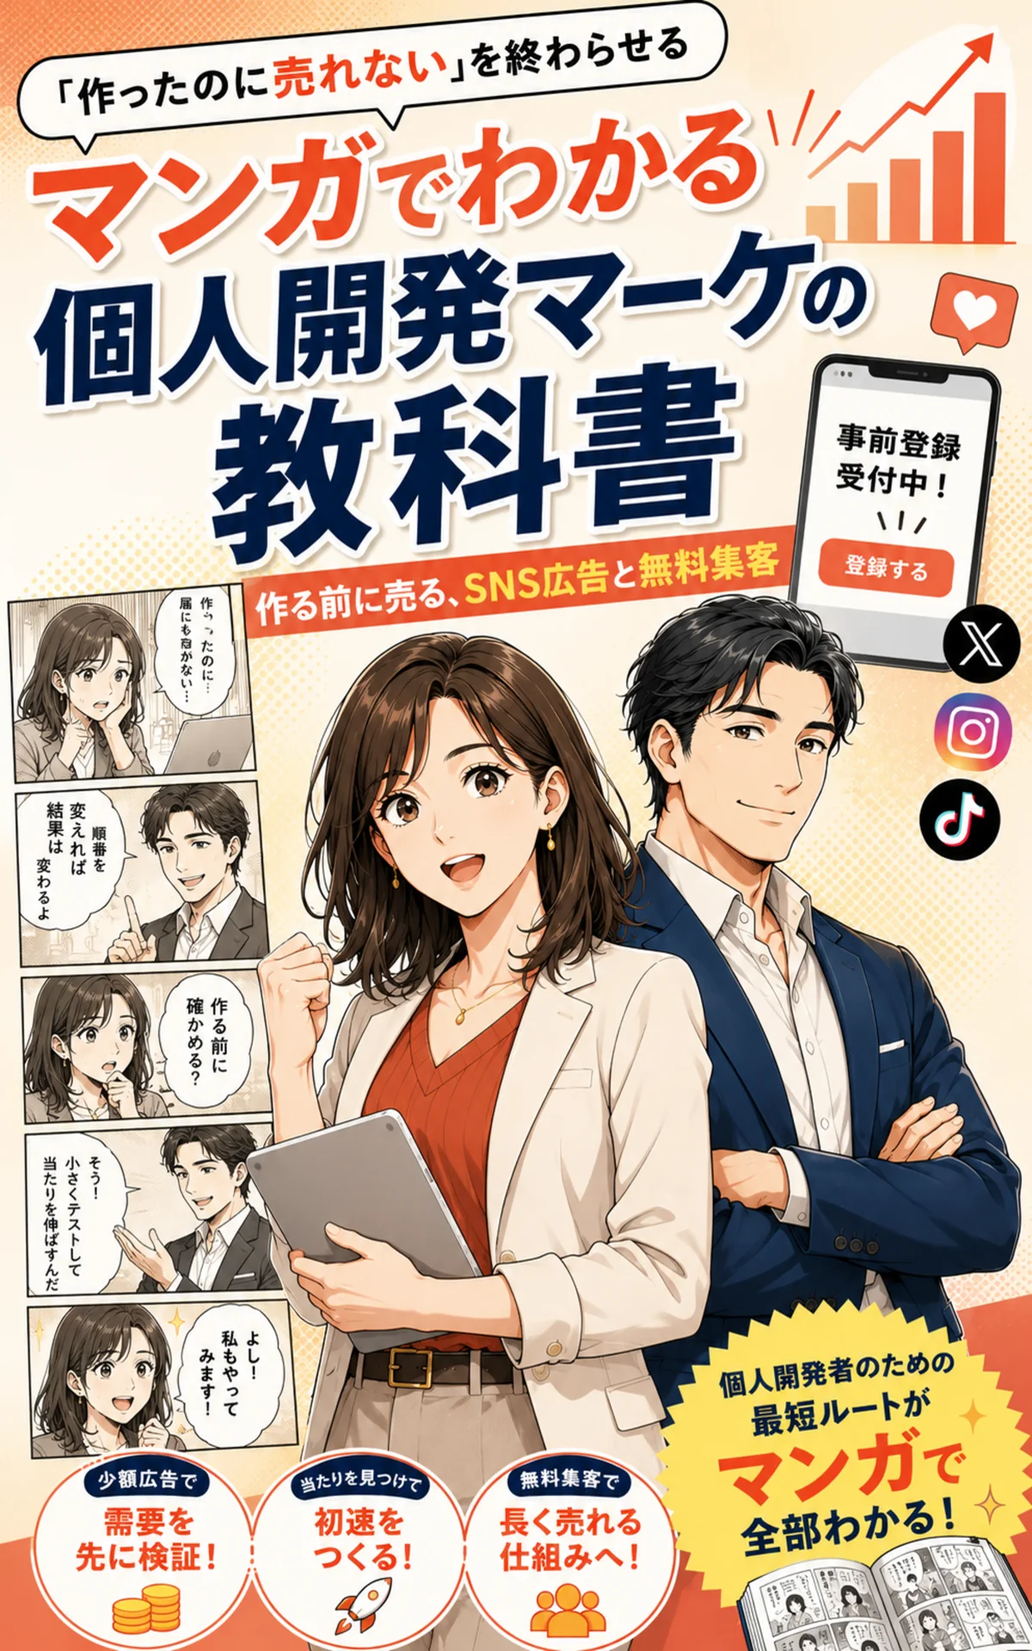
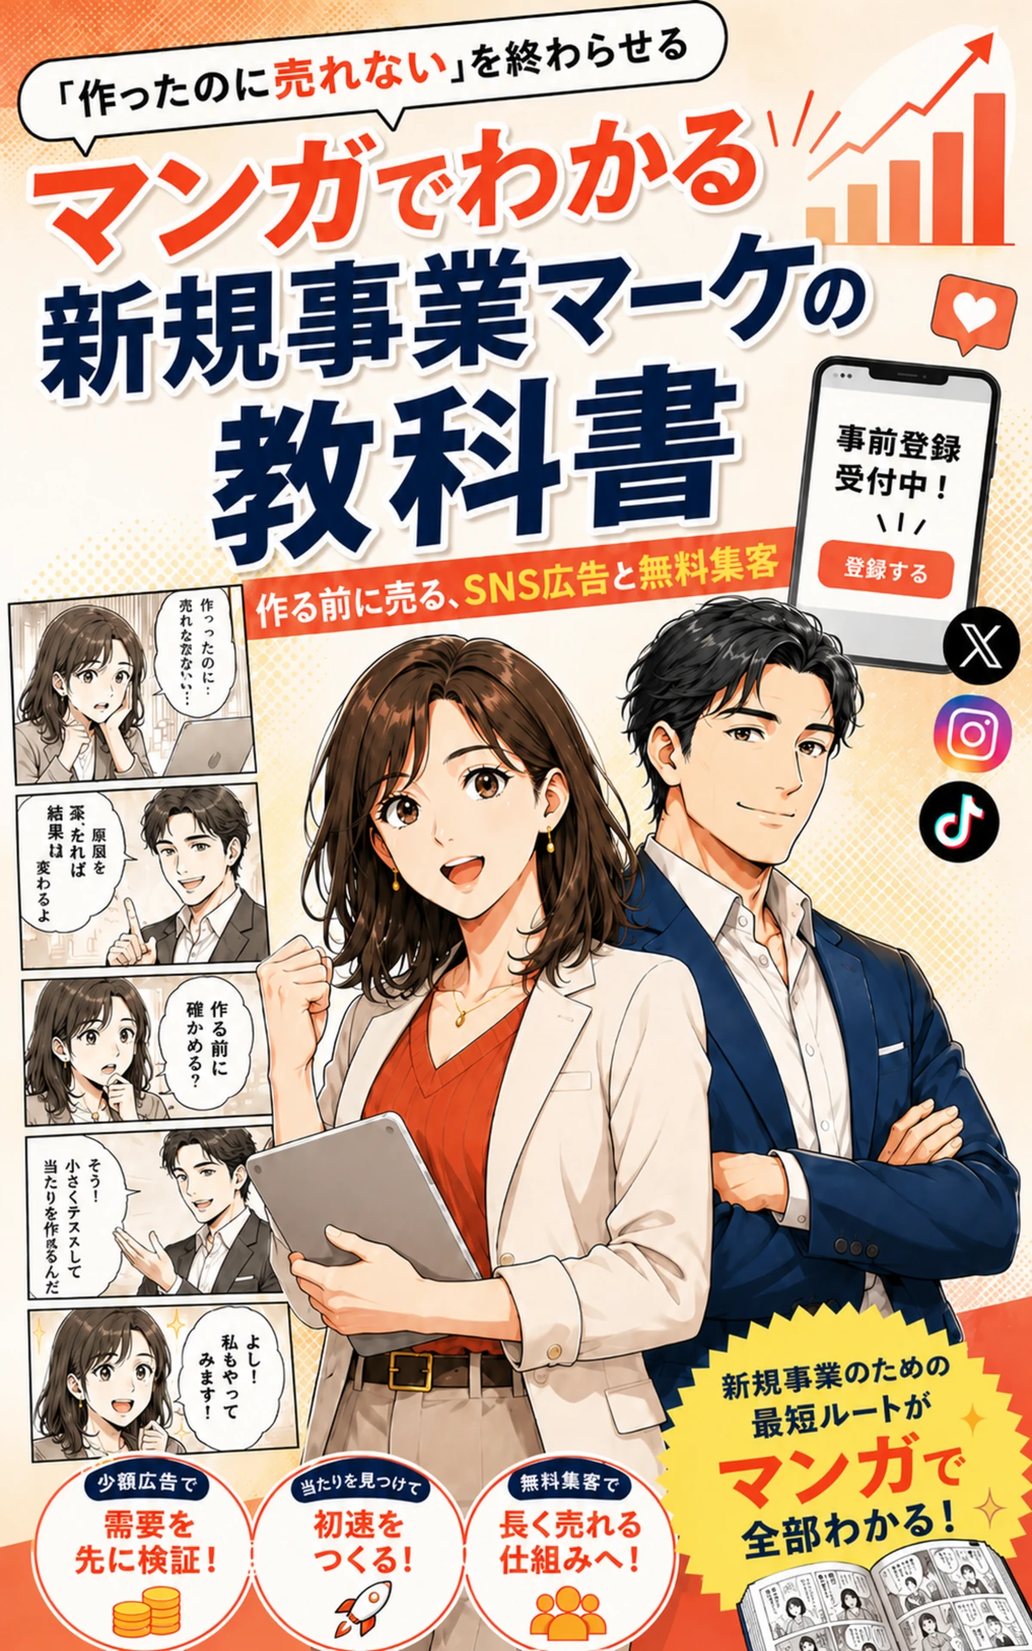
feat: 新規事業へリポジション・新表紙差替・他人動画参照の除去・全ページ相互リンク
- 個人開発/ひとり開発者→新規事業(に挑む人)へ全置換(ebook/manga/index)
- 開発者商店街→挑戦者の商店街
- 他人の動画への帰属を除去(動画で語られた目安→相場の目安/動画の事例→事例/67件→約70件)、動画系(媒体)は維持
- 表紙をcover_1600x2560.png(新規事業版)からwebp化し差替
- 各ページfooterを / /ebook /manga /特商法 /PP に統一し相互リンク完備
- 目的: 公式LINE(7qGC2YD)フォロワー増

Changed region(s): [[0.0, 0.0, 1.0, 1.0], [0.6783, 0.625, 0.7092, 0.6562]]

diff --git a/ebook.html b/ebook.html
@@ -3,12 +3,12 @@
 <head>
   <meta charset="UTF-8">
   <meta name="viewport" content="width=device-width, initial-scale=1.0">
-  <title>統合版 電子書籍＋マンガ｜個人開発マーケの教科書（無料で全部読める）</title>
-  <meta name="description" content="マンガで掴み、本文で使える。作ったのに売れないを終わらせる、個人開発者のための集客とSNS広告の教科書。マンガ全編と本文をこのページで無料で読めます。">
+  <title>統合版 電子書籍＋マンガ｜新規事業マーケの教科書（無料で全部読める）</title>
+  <meta name="description" content="マンガで掴み、本文で使える。作ったのに売れないを終わらせる、新規事業に挑む人のための集客とSNS広告の教科書。マンガ全編と本文をこのページで無料で読めます。">
   <link rel="canonical" href="https://wtnext.vercel.app/ebook">
   <meta property="og:type" content="article">
   <meta property="og:url" content="https://wtnext.vercel.app/ebook">
-  <meta property="og:title" content="統合版 電子書籍＋マンガ｜個人開発マーケの教科書">
+  <meta property="og:title" content="統合版 電子書籍＋マンガ｜新規事業マーケの教科書">
   <meta property="og:description" content="作ったのに売れないを終わらせる。作る前に需要を確かめ、SNS広告と無料集客で最初のユーザーへ届ける。マンガと本文を無料で読める統合版。">
   <meta property="og:image" content="https://wtnext.vercel.app/images/kindle-manga/cover.webp">
   <meta name="twitter:card" content="summary_large_image">
@@ -20,11 +20,11 @@
   {
     "@context": "https://schema.org",
     "@type": "Book",
-    "name": "マンガでわかる 個人開発マーケの教科書",
+    "name": "マンガでわかる 新規事業マーケの教科書",
     "bookFormat": "https://schema.org/EBook",
     "inLanguage": "ja",
     "author": { "@type": "Person", "name": "ハリー" },
-    "about": "個人開発・副業アプリの集客とSNS広告",
+    "about": "新規事業・副業の集客とSNS広告",
     "image": "https://wtnext.vercel.app/images/kindle-manga/cover.webp",
     "url": "https://wtnext.vercel.app/ebook"
   }
@@ -122,23 +122,23 @@
         <h1>作ったのに売れないは、順番で終わらせる。</h1>
         <p class="lead">良いものを作れば売れる、という思い込みから離れる。作る前に需要を確かめ、当たりを横に広げ、1日1テストで回し続ける。マンガで掴み、本文で使える教科書です。</p>
         <ul class="for-who">
-          <li>半年かけて作ったのに、誰も来なかった個人開発者へ</li>
+          <li>半年かけて作ったのに、誰も来なかった新規事業に挑む人へ</li>
           <li>AIで作れるようになった、でも売り方が分からない人へ</li>
           <li>広告も集客も初めて。少額で失敗を浅く済ませたい人へ</li>
         </ul>
         <div class="cta-row"><a class="pill line" href="#gift">公式LINEで無料特典を受け取る</a><a class="pill secondary" href="#toc">もくじから読む</a></div>
       </div>
-      <figure class="cover"><img src="/images/kindle-manga/cover.webp" alt="マンガでわかる 個人開発マーケの教科書 表紙" width="1200" height="1920" loading="eager"></figure>
+      <figure class="cover"><img src="/images/kindle-manga/cover.webp" alt="マンガでわかる 新規事業マーケの教科書 表紙" width="1200" height="1920" loading="eager"></figure>
     </div></header>
 
     <section id="intro"><div class="narrow paper">
       <div class="section-head"><span class="badge">はじめに</span><h2>作れる時代の勝敗は、集客で決まる。</h2></div>
-      <p>良いものを作れば売れる。個人開発でいちばん高くつく思い込みが、これでした。</p>
+      <p>良いものを作れば売れる。新規事業でいちばん高くつく思い込みが、これでした。</p>
       <p>半年かけて磨いたアプリを世に出したのに、誰も来ない。作れるようになった人ほど、ここでつまずきます。原因の多くは品質ではありません。順番です。多くの人が、作ってから売ろうとします。順番が逆だと気づくのは、時間もお金も使い切ったあとです。</p>
       <p>AIのおかげで、ものを作れる人は一気に増えました。だからこそ差がつくのは作る力ではなく、作る前に需要を確かめる力になっています。この本は、そのやり方を最初から最後までひとつなぎで示す教科書です。</p>
-      <p>この本には、主人公がいます。開発者商店街で小さなアプリの店を営むアカリ、そして売る技術を持つ先輩経営者のリョウです。章のはじめにマンガでアカリの悩みと答えを体感し、そのあと文章で実務の手順を受け取る。マンガで掴み、文章で使える。それがこの本の読み方です。</p>
+      <p>この本には、主人公がいます。挑戦者の商店街で小さなアプリの店を営むアカリ、そして売る技術を持つ先輩経営者のリョウです。章のはじめにマンガでアカリの悩みと答えを体感し、そのあと文章で実務の手順を受け取る。マンガで掴み、文章で使える。それがこの本の読み方です。</p>
       <p>道具立ては2つだけ覚えれば十分です。ひとつは、少額のお金で早く確かめる有料の道。もうひとつは、時間をかけて積み上げる無料の道。この2本の道を地図として持っておけば、迷いません。</p>
-      <p class="note">先に正直な注記を置きます。この本で紹介する集客の考え方は、ある個人開発者が動画で体系化していた方法を土台に、著者自身の営業25年とアプリ200本以上とKindle40冊以上の現場経験で組み直したものです。本文に出る一部の数値は、その動画で語られていた事例や目安であり、著者が保証する数字ではありません。数字は方角を示す羅針盤として使い、最後は自分の手元の反応で確かめてください。</p>
+      <p class="note">先に正直な注記を置きます。この本で紹介する集客の考え方は、著者自身の営業25年とアプリ200本以上とKindle40冊以上の現場経験から組み立てたものです。本文に出る一部の数値は、一般的な事例や相場の目安であり、著者が保証する数字ではありません。数字は方角を示す羅針盤として使い、最後は自分の手元の反応で確かめてください。</p>
     </div></section>
 
     <section id="toc"><div class="narrow">
@@ -187,7 +187,7 @@
         <div class="part-head"><span class="part-no">第1章</span><h3>順番の誤解を解く</h3></div>
         <div class="manga-stack" data-start="9" data-end="18"></div>
         <div class="narrow paper prose">
-          <h3>ひとり開発者の型</h3>
+          <h3>新規事業の型</h3>
           <p>ひとりでも、企画・開発・集客・分析の4役を頭の中で分けて動かします。作業の多くはAIで巻き取れます。ただし、需要があるかの最終判断だけは人間が握ります。ここを手放すと、誰も欲しがらないものを丁寧に作る事故が起きます。</p>
           <p>数字の共通言語を持ちましょう。1人を集める費用、その人が生涯で払う額、そして集客にかけてよい上限。この3つの数字で、感覚を数字に翻訳します。</p>
           <p>よくある失敗は、完璧主義です。全部作り込んでから出そうとして、出す前に力尽きます。対策は、一番小さく確かめられる形に切り出すこと。もうひとつの失敗は、AIニュースに踊らされて手が止まること。道具は毎週変わりますが、作る前に需要を測るという原則は変わりません。</p>
@@ -225,12 +225,12 @@
           <p>完成品はいりません。まだ存在しないアプリでも、1枚の告知素材を出せば需要は見えます。需要検証の広告は、売るための広告ではありません。反応を測るための広告です。目的は、この課題にお金や時間を払ってでも解決したい人が本当にいるかを、少額で早く知ることです。</p>
           <ol class="steps">
             <li>まだ無い商品の一枚をつくる。誰の、どんな困りごとが、これで消えるのか。それが一目で伝わる告知画像を1枚だけ用意します。</li>
-            <li>少額で広告を出す。動画で語られていた目安は、5000円から1万円ほどです。作る前に方向を確かめるための、傷の浅い投資です。</li>
+            <li>少額で広告を出す。相場の目安は、5000円から1万円ほどです。作る前に方向を確かめるための、傷の浅い投資です。</li>
             <li>事前登録で反応を受け止める。広告の行き先を、事前登録の一枚にします。登録が伸びれば需要あり、伸びなければ作る前に方向を変えられます。</li>
             <li>数字で判断する。集める費用と生涯価値を並べ、続ける価値があるかを勘ではなく数字で見ます。</li>
             <li>公開のときに列を使う。作り終えて公開したら、待っていた登録者から案内します。</li>
           </ol>
-          <p class="note">動画の事例では、1万円ほどの広告で67件の登録が集まり、公開時には並んだ人の7割から8割がそのまま利用につながったと語られていました（いずれも動画主の事例であり、保証値ではありません）。</p>
+          <p class="note">事例では、1万円ほどの広告で約70件の登録が集まり、公開時には並んだ人の7割から8割がそのまま利用につながりました（いずれも事例であり、保証値ではありません）。</p>
           <ul class="key-list">
             <li>告知素材の文 ── 「こんな困りごと、ありませんか」「それを解決するアプリを準備中です」「先行で使いたい人は、事前登録へ」。</li>
             <li>画像プロンプトの骨子 ── 誰の何の悩みを一文で指定・文字は最小限・縦横2版。</li>
@@ -251,8 +251,8 @@
         <div class="manga-stack" data-start="43" data-end="54"></div>
         <div class="narrow paper prose">
           <h3>媒体はプロダクトで選ぶ</h3>
-          <p>媒体は、人気で選ぶものではありません。プロダクトで選ぶものです。動きで見せるものは動画系、実用やサブスクは画像でも伝わる媒体が向きます。まず1つで当てて、それから横に広げるのが、少額で戦う個人開発の勝ち筋です。</p>
-          <p>メタはビジネス用のアカウントだけで始められ、狙う相手も自動で調整されます。Xで出す場合は、動画で語られていた目安として月に千円ほどの認証が要ります（動画主の情報）。一度に複数を変えると、何が効いたか分からなくなります。変える要素は、1日1つに絞ります。</p>
+          <p>媒体は、人気で選ぶものではありません。プロダクトで選ぶものです。動きで見せるものは動画系、実用やサブスクは画像でも伝わる媒体が向きます。まず1つで当てて、それから横に広げるのが、少額で戦う新規事業の勝ち筋です。</p>
+          <p>メタはビジネス用のアカウントだけで始められ、狙う相手も自動で調整されます。Xで出す場合は、相場の目安として月に千円ほどの認証が要ります。一度に複数を変えると、何が効いたか分からなくなります。変える要素は、1日1つに絞ります。</p>
           <ul class="key-list">
             <li>媒体選定 ── 動きで魅せるものは動画系、実用/サブスクは画像でも伝わる媒体。</li>
             <li>初期設定 ── ビジネス用アカウント・目的は事前登録の獲得・予算は1日の少額・1本を1日回す。</li>
@@ -301,8 +301,8 @@
     <section id="author"><div class="wrap author-grid">
       <div>
         <span class="badge">著者紹介</span>
-        <h2>実務から組み直した、個人開発の集客地図。</h2>
-        <p>本書は、個人開発者が動画で体系化していた需要検証の考え方を土台に、著者ハリーの現場経験で組み直した教科書です。数値が出る箇所は動画主の事例や目安として扱い、著者本人の実績とは区別しています。</p>
+        <h2>実務から組み立てた、新規事業の集客地図。</h2>
+        <p>本書は、著者ハリーの営業とアプリ制作とKindle制作の現場経験から組み立てた、新規事業の集客の教科書です。数値が出る箇所は一般的な事例や相場の目安として扱い、著者本人の実績とは区別しています。</p>
         <ul class="author-facts">
           <li>営業歴 25年</li>
           <li>アプリ制作 200本以上</li>
@@ -343,7 +343,7 @@
     </div></section>
   </main>
 
-  <footer><div class="wrap"><p>© 2026 World Trade Next. <a href="/">トップ</a> / <a href="/manga">マンガ版</a> / <a href="/tokusho">特定商取引法</a> / <a href="/privacy">プライバシーポリシー</a></p></div></footer>
+  <footer><div class="wrap"><p>© 2026 World Trade Next. <a href="/">トップ</a> / <a href="/ebook">統合版</a> / <a href="/manga">マンガ版</a> / <a href="/tokusho">特定商取引法</a> / <a href="/privacy">プライバシーポリシー</a></p></div></footer>
 
   <a class="linefab" href="https://lin.ee/7qGC2YD" target="_blank" rel="noopener">公式LINEで受け取る<small>無料3点セット・解除自由</small></a>
 

diff --git a/manga.html b/manga.html
@@ -3,13 +3,13 @@
 <head>
   <meta charset="UTF-8">
   <meta name="viewport" content="width=device-width, initial-scale=1.0">
-  <title>マンガ版 | 個人開発マーケの教科書</title>
-  <meta name="description" content="個人開発マーケの教科書をマンガだけで読めるページ。作ったのに届かない痛みから、需要確認、導線づくり、改善ループまでを順に追えます。">
+  <title>マンガ版 | 新規事業マーケの教科書</title>
+  <meta name="description" content="新規事業マーケの教科書をマンガだけで読めるページ。作ったのに届かない痛みから、需要確認、導線づくり、改善ループまでを順に追えます。">
   <link rel="canonical" href="https://wtnext.vercel.app/manga">
   <meta property="og:type" content="article">
   <meta property="og:url" content="https://wtnext.vercel.app/manga">
-  <meta property="og:title" content="マンガ版 | 個人開発マーケの教科書">
-  <meta property="og:description" content="個人開発者の集客とSNS広告をマンガで読む。">
+  <meta property="og:title" content="マンガ版 | 新規事業マーケの教科書">
+  <meta property="og:description" content="新規事業の集客とSNS広告をマンガで読む。">
   <meta property="og:image" content="https://wtnext.vercel.app/images/kindle-manga/cover.webp">
   <meta name="twitter:card" content="summary_large_image">
   <link rel="icon" href="data:,">
@@ -68,7 +68,7 @@
 <body id="top">
   <div class="progress" id="progress"></div>
   <nav class="nav"><div class="wrap nav-inner"><a class="brand" href="/">World Trade Next</a><div class="nav-links"><a href="/ebook">統合版</a><a href="#toc">もくじ</a><a class="pill line" href="#line">公式LINEで受け取る</a></div></div></nav>
-  <header><div class="wrap hero"><div><span class="badge">マンガ版</span><h1>個人開発マーケを、物語で読む。</h1><p class="lead">作ったのに届かない痛みから、需要確認、導線づくり、改善ループまで。アカリとリョウの会話で一気に追えるページです。</p><div class="cta-row"><a class="pill line" href="#line">公式LINEで無料特典を受け取る</a><a class="pill" href="#manga-pages">1ページ目から読む</a><a class="pill secondary" href="/ebook">本文つき統合版</a></div></div><figure class="cover"><img src="/images/kindle-manga/cover.webp" alt="マンガでわかる 個人開発マーケの教科書 表紙" width="1200" height="1920" loading="eager"></figure></div></header>
+  <header><div class="wrap hero"><div><span class="badge">マンガ版</span><h1>新規事業マーケを、物語で読む。</h1><p class="lead">作ったのに届かない痛みから、需要確認、導線づくり、改善ループまで。アカリとリョウの会話で一気に追えるページです。</p><div class="cta-row"><a class="pill line" href="#line">公式LINEで無料特典を受け取る</a><a class="pill" href="#manga-pages">1ページ目から読む</a><a class="pill secondary" href="/ebook">本文つき統合版</a></div></div><figure class="cover"><img src="/images/kindle-manga/cover.webp" alt="マンガでわかる 新規事業マーケの教科書 表紙" width="1200" height="1920" loading="eager"></figure></div></header>
   <main>
     <section><div class="manga-stack"><figure class="page"><span class="page-label">はじめに 1</span><img src="/images/kindle-manga/intro-a.webp" alt="はじめにマンガ1" width="1200" height="1920" loading="lazy"></figure><figure class="page"><span class="page-label">はじめに 2</span><img src="/images/kindle-manga/intro-b.webp" alt="はじめにマンガ2" width="1200" height="1920" loading="lazy"></figure></div></section>
     <section id="toc"><div class="narrow paper"><span class="badge">もくじ</span><h2>ページ構成</h2><p>章ごとにアンカーで移動できます。画像は高さを予約しているため、途中の読み込みで位置がずれにくい構成です。</p><div class="toc"><a href="#page-001">巻頭 作ったのに届かない</a><a href="#page-009">第1章 順番の誤解を解く</a><a href="#page-019">第2章 誰の悩みかを絞る</a><a href="#page-031">第3章 需要を確かめる</a><a href="#page-043">第4章 届ける場所と導線</a><a href="#page-055">第5章 無料発信と改善ループ</a><a href="#page-067">終章 自走と巻末案内</a><a href="#line">公式LINE特典</a></div></div></section>
@@ -76,7 +76,7 @@
     <section><div class="manga-stack"><figure class="page"><span class="page-label">著者紹介</span><img src="/images/kindle-manga/author.webp" alt="著者紹介ページ" width="1200" height="1920" loading="lazy"></figure><figure class="page"><span class="page-label">レビューのお願い 1</span><img src="/images/kindle-manga/review-1.webp" alt="レビューのお願いページ1" width="1200" height="1920" loading="lazy"></figure><figure class="page"><span class="page-label">レビューのお願い 2</span><img src="/images/kindle-manga/review-2.webp" alt="レビューのお願いページ2" width="1200" height="1920" loading="lazy"></figure></div></section>
     <section id="line"><div class="wrap line-box"><span class="badge">公式LINE特典</span><h2>読後特典を無料で受け取る。</h2><p>Book Maker、A5版型への変換ツール、表紙生成のGPTsを案内します。受け取りは公式LINEから。</p><a class="pill" href="https://lin.ee/7qGC2YD" target="_blank" rel="noopener">公式LINEで特典を受け取る</a><p class="muted" style="margin-top:18px;font-size:15px;">案内には広告、アフィリエイトリンクを含む場合があります。成果や収益を保証するものではありません。</p></div></section>
   </main>
-  <footer><div class="wrap"><p>© 2026 World Trade Next. <a href="/">トップ</a> / <a href="/ebook">統合版</a> / <a href="/tokusho">特定商取引法</a> / <a href="/privacy">プライバシーポリシー</a></p></div></footer>
+  <footer><div class="wrap"><p>© 2026 World Trade Next. <a href="/">トップ</a> / <a href="/ebook">統合版</a> / <a href="/manga">マンガ版</a> / <a href="/tokusho">特定商取引法</a> / <a href="/privacy">プライバシーポリシー</a></p></div></footer>
 
   <a class="linefab" href="https://lin.ee/7qGC2YD" target="_blank" rel="noopener">公式LINEで受け取る<small>無料3点セット・解除自由</small></a>
 

diff --git a/index.html b/index.html
@@ -328,8 +328,8 @@ if ('serviceWorker' in navigator) {
 <body class="theme-authority">
     <div id="page-overlay"></div>
     <div id="root"></div>
-    <div class="ebook-entry" aria-label="無料で読める 個人開発マーケの教科書">
-        <span class="ebook-entry-label">無料で読める｜個人開発マーケの教科書</span>
+    <div class="ebook-entry" aria-label="無料で読める 新規事業マーケの教科書">
+        <span class="ebook-entry-label">無料で読める｜新規事業マーケの教科書</span>
         <a href="/ebook">電子書籍＋マンガ</a>
         <a href="/manga" class="secondary">マンガ版</a>
     </div>
